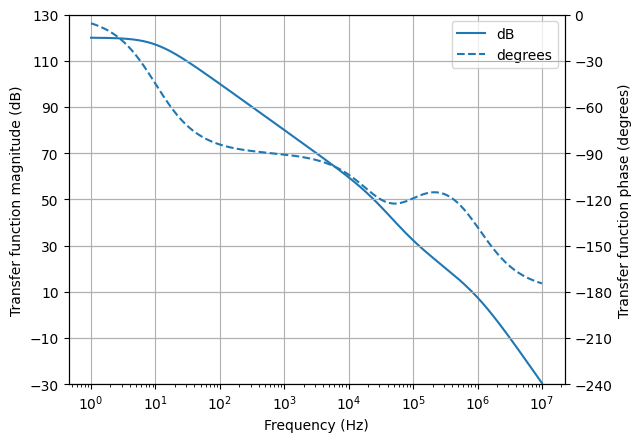
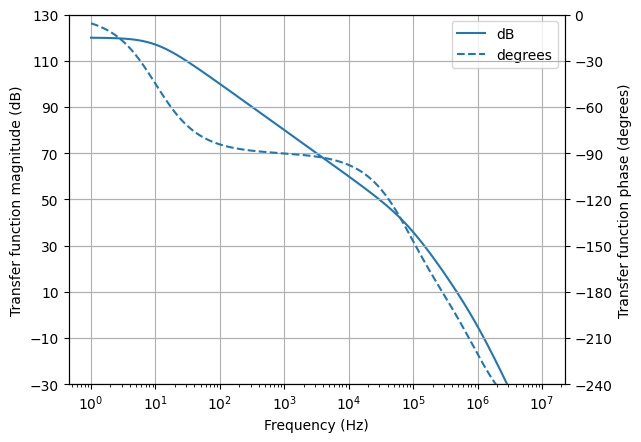
Fix stability tut

diff --git a/lcapy/dltifilter.py b/lcapy/dltifilter.py
@@ -71,6 +71,15 @@ class DLTIFilter(object):
         H = self.transfer_function()
         return H(n)
 
+    def step_response(self):
+        """Return discrete-time step response in time domain."""
+
+        H = self.transfer_function()
+        G = (H * z) / (z - 1)
+        G.is_causal = H.is_causal
+
+        return G(n)
+
     def difference_equation(self, inputsym='x', outputsym='y'):
         """Return difference equation."""
 

diff --git a/doc/examples/tutorials/opamps/opamp-voltage-follower-RC-load-open-loop1.py b/doc/examples/tutorials/opamps/opamp-voltage-follower-RC-load-open-loop1.py
@@ -1,8 +1,8 @@
 from matplotlib.pyplot import savefig
 from lcapy import Circuit, j, f, s, degrees, pi
 
-b = Circuit('opamp-voltage-follower-RC-load2.sch')
-G = b.transfer(2, 0, 3, 0)
+b = Circuit('opamp-voltage-follower-RC-load-open-loop1.sch')
+G = b.transfer(2, 0, 4, 0)
 
 f1 = 10
 f2 = 1e6

diff --git a/doc/examples/tutorials/opamps/opamp-voltage-follower-C-load-open-loop1.py b/doc/examples/tutorials/opamps/opamp-voltage-follower-C-load-open-loop1.py
@@ -1,8 +1,8 @@
 from matplotlib.pyplot import savefig
 from lcapy import Circuit, j, f, s, degrees, pi
 
-b = Circuit('opamp-voltage-follower-C-load2.sch')
-G = b.transfer(2, 0, 3, 0)
+b = Circuit('opamp-voltage-follower-C-load-open-loop1.sch')
+G = b.transfer(2, 0, 4, 0)
 
 f1 = 10
 f2 = 1e6

diff --git a/doc/examples/tutorials/opamps/opamp-voltage-follower-C-load-closed-loop-pole-plot1.py b/doc/examples/tutorials/opamps/opamp-voltage-follower-C-load-closed-loop-pole-plot1.py
@@ -1,7 +1,7 @@
 from matplotlib.pyplot import savefig
 from lcapy import Circuit, j, f, s, degrees, pi
 
-a = Circuit('opamp-voltage-follower-C-load-model1.sch')
+a = Circuit('opamp-voltage-follower-C-load1.sch')
 H = a.transfer(2, 0, 1, 0)
 
 f1 = 10

diff --git a/doc/tutorials.rst b/doc/tutorials.rst
@@ -1966,8 +1966,8 @@ capacitive load::
    >>> from lcapy import *
    >>> a = Circuit("""
    ... E1 1 0 opamp 2 3 A; right, mirror
-   ... W 1 1_1; right
-   ... C 1_1 0_1; down
+   ... W 1 4; right
+   ... C 4 0_1; down
    ... W 3 3_1; up=0.75
    ... W 3_1 3_2; right
    ... W 3_2 1; down
@@ -1987,8 +1987,8 @@ but this can be modelled using the `Ro` parameter::
    >>> from lcapy import *
    >>> a = Circuit("""
    ... E1 1 0 opamp 2 3 A Ro=Ro; right, mirror
-   ... W 1 1_1; right
-   ... C 1_1 0_1; down
+   ... W 1 4; right
+   ... C 4 0_1; down
    ... W 3 3_1; up=0.75
    ... W 3_1 3_2; right
    ... W 3_2 1; down
@@ -2013,13 +2013,13 @@ inverting input to ground::
 
    >>> b = Circuit("""
    ... E1 1 0 opamp 2 3 A Ro=Ro; right, mirror
-   ... W 1 1_1; right
-   ... C 1_1 0_1; down
+   ... W 1 4; right
+   ... C 4 0_1; down
    ... W 3 0; down=0.25, implicit, l={0\,\mathrm{V}}
    ... W 2_1 2; right
    ... W 0 0_1; right
    ... P1 2_1 0; down""")
-   >>> G = b.transfer(2, 0, 3, 0)
+   >>> G = b.transfer(2, 0, 4, 0)
    >>> G.general()
         A
    ──────────
@@ -2165,12 +2165,13 @@ The voltage follower with a capacitor load can be made stable by reducing the fe
    >>> from lcapy import *
    >>> a = Circuit("""
    ... E1 1 0 opamp 2 3 A Ro=Ro; right, mirror
-   ... R 1 1_1; right
-   ... C 1_1 0_1; down
+   ... R 1 4; right
+   ... C 4 0_1; down
    ... W 3 3_1; up=0.75
    ... W 3_1 3_2; right
    ... W 3_2 1; down
    ... W 2_1 2; right
+   ... W 0 0_1; right
    ... P1 2_1 0; down""")
    >>> a.draw()
 
@@ -2180,8 +2181,9 @@ The voltage follower with a capacitor load can be made stable by reducing the fe
 
 The closed-loop transfer function is::
 
-   >>> H = a.transfer(2, 0, 1, 0)
-         A⋅C⋅R⋅s + A
+   >>> H = a.transfer(2, 0, 4, 0)
+   >>> H.general()
+                A
    ──────────────────────────────
    A + s⋅(A⋅C⋅R + C⋅R + C⋅Rₒ) + 1
 
